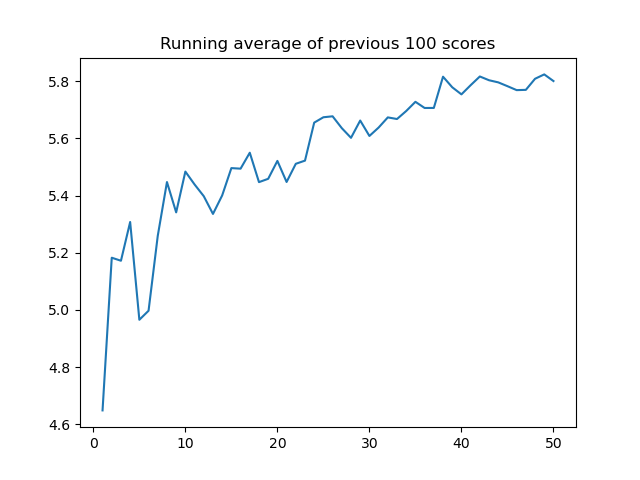
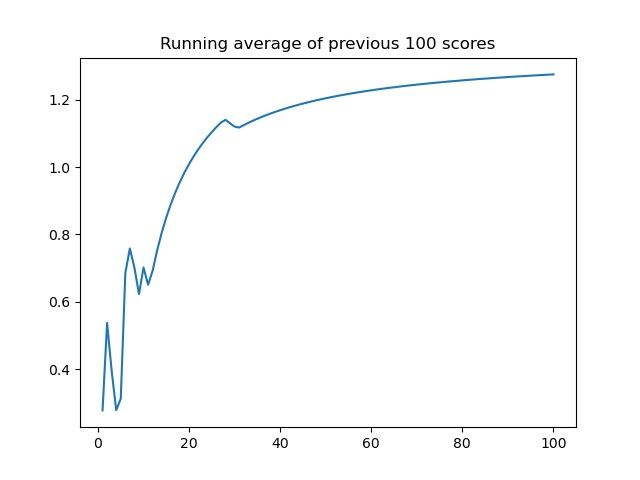
update ddpg

diff --git a/ddpg_tf2.py b/ddpg_tf2.py
@@ -10,7 +10,7 @@ import numpy as np
 class Agent:
     def __init__(self, input_dims, alpha=0.001, beta=0.002, env=None,
                  gamma=0.99, n_actions=2, max_size=1000000, tau=0.0005,
-                 fc1=400, fc2=300, batch_size=64, noise=0.4):
+                 fc1=400, fc2=300, batch_size=64, noise=0.5):
         self.gamma = gamma
         self.tau = tau
         self.memory = ReplayBuffer(max_size, input_dims, n_actions)
@@ -77,15 +77,20 @@ class Agent:
         #     return a[0]
         state = tf.convert_to_tensor([observation], dtype=tf.float32)
         # 10 random actions per n = batch size actions
-        if (self.cntr % self.batch_size < 10):
-            action = np.random.uniform(low=0.0, high=1.0, size=(self.n_actions - 1,)).tolist()
-
+        if (self.cntr % self.batch_size < (self.n_actions - 1)) and self.cntr < 10 * self.batch_size:
+            # action = np.random.uniform(low=0.0, high=1.0, size=(self.n_actions - 1,)).tolist()
             # try not to keep cash
-            action.append(0)
+            # action.append(0)
+
+            # full in on a stock, randomly
+            action = [0 for i in range(self.n_actions)]
+            action[self.cntr % self.batch_size] = 1
+ 
             # action /= action.sum()
             actions = tf.convert_to_tensor([action], dtype=tf.float32)
-            actions = tf.clip_by_value(actions, self.min_action, self.max_action)
-            actions = scale_array(actions)
+            # actions = tf.clip_by_value(actions, self.min_action, self.max_action)
+            # actions = scale_array(actions)
+            self.cntr += 1
             return actions[0]
         
         actions = self.actor(state)

diff --git a/main_ddpg.py b/main_ddpg.py
@@ -8,7 +8,7 @@ import tensorflow as tf
 import pandas as pd
 
 if __name__ == '__main__':
-    tickers = ['AAPL', 'MSFT', 'AMZN', 'GOOGL', 'TSLA']
+    tickers = ['AMZN','GOOG','PG','KO','IBM','DG','XOM','KO','PEP','MT','NL','LPL', 'META', 'TSLA', 'NVDA'] #['AAPL', 'MSFT', 'AMZN', 'GOOGL', 'TSLA']
 
     # load data
     LOAD_DATA = False
@@ -35,13 +35,13 @@ if __name__ == '__main__':
 
     # agent = Agent(input_dims=(env.observation_space.shape[0] + 1,), env=env,
     #     n_actions=env.action_space.shape[0])
-    n_games = 50
+    n_games = 100
 
     figure_file = 'plots/portfolio-optimization.png'
 
     
     score_history = []
-    load_checkpoint = True
+    load_checkpoint = False
 
     if load_checkpoint:
         env = PortfolioEnv(test_data, initial_investment)
